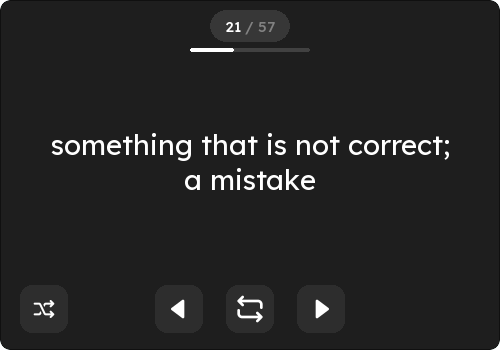
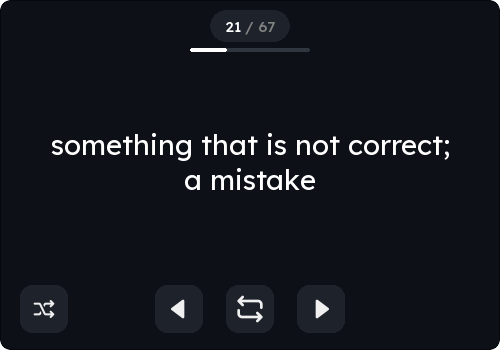
changed color scheme

Changed region(s): [[0.42, 0.0286, 0.6, 0.1429]]

diff --git a/src/counter.py b/src/counter.py
@@ -1,4 +1,5 @@
 import pygame
+from src import config
 
 class Counter:
     def __init__(self, x, y, width, total):
@@ -24,7 +25,7 @@ class Counter:
     def draw(self, surface):
         pygame.draw.rect(
             surface,
-            (55, 55, 55),
+            (config.SURFACE),
             self.rect,
             border_radius=16
         )
@@ -32,13 +33,13 @@ class Counter:
         current_text = self.font.render(
             str(self.index + 1),
             True,
-            (255, 255, 255)
+            (config.WHITE)
         )
 
         total_text = self.font.render(
             f" / {self.total}",
             True,
-            (130, 130, 130)
+            (config.TEXT_SECONDARY)
         )
 
         current_rect = current_text.get_rect()
@@ -63,13 +64,13 @@ class Counter:
             4
         )
 
-        pygame.draw.rect(surface, (65, 65, 65), bar_bg, border_radius=3)
+        pygame.draw.rect(surface, (config.BORDER), bar_bg, border_radius=3)
 
         bar_width = int(bar_bg.width * self.progress)
 
         pygame.draw.rect(
             surface,
-            (255, 255, 255),
+            (config.WHITE),
             (bar_bg.x, bar_bg.y, bar_width, bar_bg.height),
             border_radius=3
         )

diff --git a/src/draw.py b/src/draw.py
@@ -32,7 +32,7 @@ def draw_word():
 
     for line in lines:
         text_surface = config.word_font.render(
-            line, True, (255, 255, 255)
+            line, True, (config.WHITE)
         )
 
         text_rect = text_surface.get_rect(
@@ -73,7 +73,7 @@ def draw_definitions():
             pygame.mouse.get_pos()
         )
 
-        button_color = (85, 85, 85) if hovered else (55, 55, 55)
+        button_color = (config.SURFACE_HOVER) if hovered else (config.SURFACE)
 
         pygame.draw.rect(
             config.screen,
@@ -83,7 +83,7 @@ def draw_definitions():
         )
 
         label_surface = config.def_font.render(
-            label, True, (255, 255, 255)
+            label, True, (config.WHITE)
         )
 
         label_rect = label_surface.get_rect(
@@ -101,7 +101,7 @@ def draw_definitions():
 
     for line in lines:
         text_surface = config.def_font.render(
-            line, True, (255, 255, 255)
+            line, True, (config.WHITE)
         )
 
         text_rect = text_surface.get_rect(

diff --git a/src/button.py b/src/button.py
@@ -1,4 +1,5 @@
 import pygame
+from src import config
 
 class Button:
     def __init__(self, x, y, icon, action, size=48):
@@ -10,7 +11,7 @@ class Button:
         mouse_pos = pygame.mouse.get_pos()
         hovered = self.rect.collidepoint(mouse_pos)
 
-        color = (65, 65, 65) if hovered else (45, 45, 45)
+        color = (config.SURFACE_HOVER) if hovered else (config.SURFACE)
 
         pygame.draw.rect(surface, color, self.rect, border_radius=12)
 

diff --git a/src/config.py b/src/config.py
@@ -12,6 +12,16 @@ pygame.display.set_caption("pwntbook")
 
 clock = pygame.time.Clock()
 
+BACKGROUND = (13, 17, 23)
+ACCENT = (106, 126, 245)
+TEXT = (240, 240, 240)
+
+TEXT_SECONDARY = (130, 130, 130)
+SURFACE = (30, 35, 43)
+SURFACE_HOVER = (45, 52, 65)
+BORDER = (48, 54, 61)
+WHITE = (255, 255, 255)
+
 flip_icon, shuffle_icon, left_icon, right_icon = load_icons()
 
 word_font = pygame.font.Font("assets/fonts/LexendDeca-Regular.ttf", 46)

diff --git a/src/icons.py b/src/icons.py
@@ -9,8 +9,8 @@ left_svg = pyconify.svg("akar-icons:triangle-left-fill")
 right_svg = pyconify.svg("akar-icons:triangle-right-fill")
 
 def load_icon(svg):
-    svg = svg.replace(b"currentColor", b"#ffffff")
-    svg = svg.replace(b'fill="black"', b'fill="#ffffff"')
+    svg = svg.replace(b"currentColor", b"#F0F0F0")
+    svg = svg.replace(b'fill="black"', b'fill="#F0F0F0"')
 
     png = cairosvg.svg2png(
         bytestring=svg,

diff --git a/main.py b/main.py
@@ -47,7 +47,7 @@ while running:
 
     show_back = config.flipped
 
-    config.screen.fill((30, 30, 30))
+    config.screen.fill(config.BACKGROUND)
 
     if show_back:
         draw_definitions()
